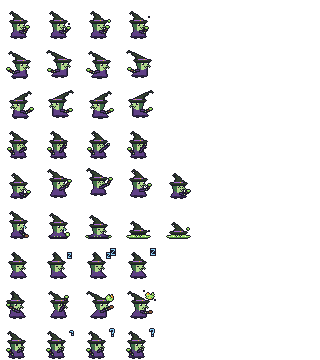
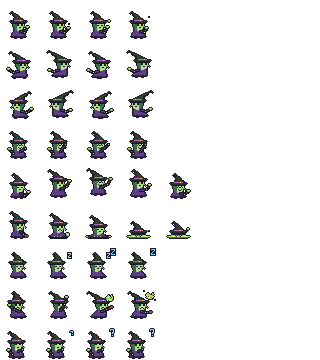
fix(arte): Bruxa — rosto enxuto e caldeirão sempre dentro do quadro
- Rosto: olhos em blocos 2x2 (sem brilho), boquinha de 2 px e sem bochecha;
  olhos recuados 1 px para não comer o contorno da cabeça.
- Caldeirão com 1 coluna de folga; no failed o chapéu para em y=23 (antes ia a 24
  e cortava o fundo do caldeirão) e o recuo do golpe anda 1 px para a direita.
- Teste: extra inteiro no quadro em todo estado.

diff --git a/herois/bruxa.py b/herois/bruxa.py
@@ -72,28 +72,23 @@ def _chapeu(g, bx, by, torto=0):
 
 
 def _rosto(g, hx, hy, olhos):
+    """Rosto enxuto: dois olhos (blocos 2x2, ou traço/arco) e uma boquinha; sem brilho nem bochecha soltos."""
     ex, ey = hx + 1, hy - 1
-    for x in (ex, ex + 4):
+    for x in (ex - 2, ex + 2):
         if olhos == "fechado":
-            carimbar(g, ["BB"], x - 1 + (x > ex), ey + 1)
+            carimbar(g, ["BB"], x, ey + 1)
         elif olhos == "feliz":
-            carimbar(g, [".B.", "B.B"], x - 1, ey)
+            carimbar(g, [".B.", "B.B"], x - (x > ex), ey)
         elif olhos == "x":
-            carimbar(g, ["B.B", ".B.", "B.B"], x - 1, ey - 1)
+            carimbar(g, ["B.B", ".B.", "B.B"], x - (x > ex), ey - 1)
         else:
-            carimbar(g, ["BB", "BB", "BB"] if olhos != "cima" else ["WB", "BB", "BB"], x - 1 + (x > ex), ey - 1)
-            if olhos != "cima":
-                g[ey][x - 1 + (x > ex)] = "W"
+            carimbar(g, ["BB", "BB"], x, ey - (olhos == "cima"))
             if olhos == "bravo":
-                carimbar(g, ["BB."] if x == ex else [".BB"], x - 2 + (x > ex), ey - 2)
-                g[ey - 2][ex] = g[ey - 2][ex + 3] = "B"
+                carimbar(g, ["BB."] if x < ex else [".BB"], x - (x < ex), ey - 2)
             if olhos == "triste":
-                carimbar(g, [".BB"] if x == ex else ["BB."], x - 2 + (x > ex), ey - 2)
-    if olhos == "x":
-        carimbar(g, [".B.", "B.B"], ex + 1, ey + 3)
-    else:
-        carimbar(g, ["B.B", ".B."] if olhos in ("feliz", "normal", "cima", "fechado") else [".B.", "B.B"], ex + 1, ey + 3)
-    g[ey + 2][ex - 2] = "P"
+                carimbar(g, [".BB"] if x < ex else ["BB."], x - (x < ex), ey - 2)
+    boca = {"feliz": ["B..B", ".BB."], "triste": [".BB.", "B..B"], "bravo": [".BB.", "B..B"]}.get(olhos, [".BB."])
+    carimbar(g, boca, ex - 1, ey + 3)
 
 
 def _poca(g, cx, y, meia, olhos=False):
@@ -221,14 +216,14 @@ _SPECS = {
                dict(ch=6, olhos="triste", derrete=1, por=((LAGRIMA, 20, 21), (GOTA, 21, 24))),
                dict(ch=4, olhos="fechado", derrete=2),
                dict(derrete=3, chapeu=(14, 23), torto=1, por=((BOLHA_P, 24, 22),)),
-               dict(derrete=3, chapeu=(14, 24), torto=2, por=((BOLHA, 22, 19),))],
+               dict(derrete=3, chapeu=(14, 23), torto=2, por=((BOLHA, 22, 19),))],
     # cochila sentada, cabeça pende, "z" subindo
     "waiting": [dict(ch=7, lean=-1, olhos="fechado", torto=2),
                 dict(ch=7, lean=-2, olhos="fechado", torto=3, por=((Z_P, 23, 4),)),
                 dict(ch=7, lean=-2, olhos="fechado", torto=3, por=((Z_P, 22, 4), (Z_G, 26, 0))),
                 dict(ch=7, lean=-1, olhos="fechado", torto=2, por=((Z_G, 26, 0),))],
     # golpe: recua a concha, gira por cima e arremessa o caldo, que estoura em fogo verde
-    "running": [dict(cx=13, lean=-2, olhos="bravo", torto=2, bracos=(((14, 23), (9, 21)),), conchas=(_c((9, 21), (4, 17)),)),
+    "running": [dict(cx=14, lean=-2, olhos="bravo", torto=2, bracos=(((15, 23), (10, 21)),), conchas=(_c((10, 21), (5, 17)),)),
                 dict(cx=14, lean=1, olhos="bravo", torto=-1, bracos=(((16, 22), (20, 16)),), conchas=(_c((20, 16), (22, 9)),)),
                 dict(cx=14, lean=3, olhos="bravo", torto=-3, bracos=(((17, 23), (22, 21)),), conchas=(_c((22, 21), (27, 19), False),),
                      por=((FEITICO, 21, 6),)),
@@ -248,17 +243,18 @@ QUADROS, ANCORA = {}, {}
 for _e, _s in _SPECS.items():
     QUADROS[_e], ANCORA[_e] = _estado(_s)
 
-# caldeirãozinho flutuando ao lado (atrás, à esquerda), com bolha; âncora = (aba - 12, aba - 10)
+# caldeirãozinho flutuando ao lado (atrás, à esquerda), com bolha; âncora = (aba - 12, aba - 10).
+# Uma coluna de folga à esquerda para o caldeirão nunca encostar na borda.
 _VAZIO = "." * 25
 CALDEIRAO = [_VAZIO] * 11 + [
-    "..KK.....................",
-    ".KVVK....................",
-    "KKVVKK...................",
-    "KSSSSSK..................",
-    "KSkkkSK..................",
-    "KSkkkSK..................",
-    ".KSSSK...................",
-    "..KKK....................",
+    "...KK....................",
+    "..KVVK...................",
+    ".KKVVKK..................",
+    ".KSSSSSK.................",
+    ".KSkkkSK.................",
+    ".KSkkkSK.................",
+    "..KSSSK..................",
+    "...KKK...................",
 ]
 # corvinho pousado na aba e vagalumes em volta do chapéu
 MATRIARCA = CALDEIRAO[:]
@@ -272,7 +268,7 @@ for _i, _lin in {
     8: "KOKkkkkkK................",
     9: ".KKkkkkK..............KK.",
     10: "..KKKKK..............KYYK",
-    11: "..KK..................KK.",
+    11: "...KK.................KK.",
 }.items():
     MATRIARCA[_i] = _lin
 ESTAGIOS = [

diff --git a/tests/test_folha.py b/tests/test_folha.py
@@ -228,6 +228,7 @@ def test_heroi_bruxa():
     for i in range(3):
         ult = montar.estados(bx, i)["failed"][-1]
         assert sum(ch != "." for l in ult for ch in l) >= 40, i
+    extra_dentro(bx)   # caldeirão (e vagalumes) inteiros no quadro, inclusive no failed
 
 
 test_heroi_bruxa()
